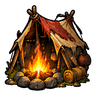
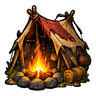
Ícones de Covil e chefe, Alfa sem franja clara, Oficina sem corte e menus sem ícones

Changed region(s): [[0.75, 0.2188, 0.875, 0.4062], [0.5625, 0.1562, 0.6875, 0.2188], [0.125, 0.5, 0.1562, 0.625]]

diff --git a/docs/ARTE.md b/docs/ARTE.md
@@ -1,6 +1,6 @@
 # MONSTER DISSECTION: arte
 
-## Status: as fases 3 e 4 já estão no jogo; faltam 18 imagens e há ajustes opcionais (ver "Novos pedidos")
+## Status: as fases 3 e 4 já estão no jogo; faltam 18 imagens (partes, cartas e melhorias) e há ajustes opcionais (ver "Novos pedidos")
 
 | Grupo | Qtde | Situação |
 |---|---|---|
@@ -16,7 +16,7 @@
 | Melhorias da Oficina | 5 de 7 | **Faltam 2** (novas) |
 | Acampamento: barraca com fogueira no centro | 1 | **Pronto** (recortada da folha "Fogueiras e Acampamento"; a fogueira avulsa está em `assets/art/extra/camp/`; o fundo alternativo está em `assets/art/extra/backgrounds/camp_v2.png`) |
 | Acampamento: ícones das opções | 3 | **Pronto** (os três da folha 3; as outras versões estão em `assets/art/extra/camp/alt/`) |
-| Ícones de navegação | 10 de 12 | **Faltam 2** (elite e chefe) (`assets/art/ui/nav_*.png`, 96 px; originais em `assets/art/extra/fases34/nav_full/`). Em uso: `nav_dissect`, `nav_camp`, `nav_event`, `nav_map`, `nav_lab`, `nav_settings`, `nav_pack`. Ainda sem uso: `nav_book`, `nav_forge`, `nav_loot` |
+| Ícones de navegação | 12 | **Pronto** (`assets/art/ui/nav_*.png`, 96 px; originais em `assets/art/extra/fases34/nav_full/`). Em uso: `nav_dissect`, `nav_camp`, `nav_event`, `nav_map`, `nav_lab`, `nav_settings`, `nav_pack`. `nav_elite`, `nav_boss`. Ainda sem uso: `nav_book`, `nav_forge`, `nav_loot` |
 
 As imagens ficam em `assets/art/<monsters|cards|parts|mutations|events|backgrounds|stations|upgrades|camp|ui>/<id>.png` e o jogo as carrega
 sozinho pelo nome do arquivo. Para trocar uma imagem, basta substituir o arquivo com o mesmo nome.
@@ -74,7 +74,7 @@ são os definitivos: arte nova entra sozinha, sem mexer no código.
 | **C7** | Cartas híbridas | 8 | **Pronta**, instalada: serve no tamanho da carta (ver abaixo) |
 
 As cartas vieram da "Prancha de dissecação Ashwing e Sporemaw". O estilo ficou certo e o tamanho basta, porque a arte
-aparece com cerca de 140×80 px na carta. Elas mostram a peça parada, sem ação; ver o pedido 7.
+aparece com cerca de 140×80 px na carta. Elas mostram a peça parada, sem ação; ver o pedido 6.
 
 ### Como pedir
 
@@ -96,10 +96,9 @@ são relativos a `assets/art/`. Anexe as imagens **na ordem indicada**.
 | **2** | Cartas dos monstros extras (C8) | 8 | **Faltam de verdade:** hoje usam desenho provisório |
 | **3** | Melhorias novas da Oficina (L3) | 2 | **Faltam de verdade:** hoje usam desenho provisório |
 | **4** | Líquido das mutações | 4 | Frascos vermelhos, iguais aos do Bloodfang |
-| **5** | Ícones de elite e chefe no mapa | 2 | Ainda usam o desenho antigo |
-| **6** | Stormtalon | 1 | Parecido com o Ashwing |
-| **7** | Cartas com ação (C5, C6, C7) | 32 | As atuais mostram a peça parada |
-| **8** | Ovos do Ninho e raio do Santuário | 2 | Cores diferentes do pedido |
+| **5** | Stormtalon | 1 | Parecido com o Ashwing |
+| **6** | Cartas com ação (C5, C6, C7) | 32 | As atuais mostram a peça parada |
+| **7** | Ovos do Ninho e raio do Santuário | 2 | Cores diferentes do pedido |
 
 #### 1. P8: partes dos monstros extras (8, em uma folha)
 
@@ -183,23 +182,7 @@ Edit the attached image, keeping everything exactly the same: same 4 containers,
 
 Os arquivos são os mesmos: `mut_sm_gills`, `mut_mm_core`, `mut_aw_gland` e `mut_er_heart`, nessa ordem.
 
-#### 5. Ícones de elite e chefe no mapa (2, em uma folha)
-
-Anexe `extra/fases34/folhas/Ícones de Navegação em Fantasia Sombria-1.png`.
-
-```
-Create 2 new icons in exactly the same style as the attached icon sheet: same thick black outline, same painted texture, same size and level of detail. Exactly 2 separate isolated icons in a single row with wide spacing, in this exact order, left to right.
-1. a large cracked monster skull with big horns and red war paint, on crossed bones
-2. a menacing bone crown with red gems, resting on a large monster skull
-Plain flat white background. No text, no numbers, no labels, no frames, no people, no gore. One image, maximum resolution, at least 1536 pixels wide.
-```
-
-| Ordem | Arquivo | Onde aparece |
-|---|---|---|
-| 1 | `nav_elite.png` | Pontos de elite no mapa |
-| 2 | `nav_boss.png` | Ponto do chefe no mapa, quando o chefe ainda é desconhecido |
-
-#### 6. Stormtalon (1)
+#### 5. Stormtalon (1)
 
 Anexe `monsters/ashwing.png` e `monsters/stormtalon.png`.
 
@@ -209,7 +192,7 @@ Redraw the creature from the second attached image, alone, in the same style and
 
 O arquivo é o mesmo: `stormtalon.png`.
 
-#### 7. Cartas com ação (C5, C6, C7)
+#### 6. Cartas com ação (C5, C6, C7)
 
 Três folhas, uma por conversa. Anexe `cards/bloodthirst.png` e `cards/abyssal_gaze.png`. Cole o cabeçalho e, logo
 depois, a lista da folha. Use `Exactly 12` e `4x3` nas folhas C5 e C6, e `Exactly 8` e `4x2` na C7. A ordem das
@@ -268,7 +251,7 @@ Dark fantasy hand-painted game icon sheet, same style as the attached images: ma
 
 As tabelas de arquivos estão em "Consulta" abaixo. Na C5 e na C6 a ordem é a de cima para baixo em cada tabela.
 
-#### 8. Ovos do Ninho e raio do Santuário (2, editar cada imagem)
+#### 7. Ovos do Ninho e raio do Santuário (2, editar cada imagem)
 
 **`ev_cliff_nest.png`:** anexe `events/ev_cliff_nest.png`.
 
